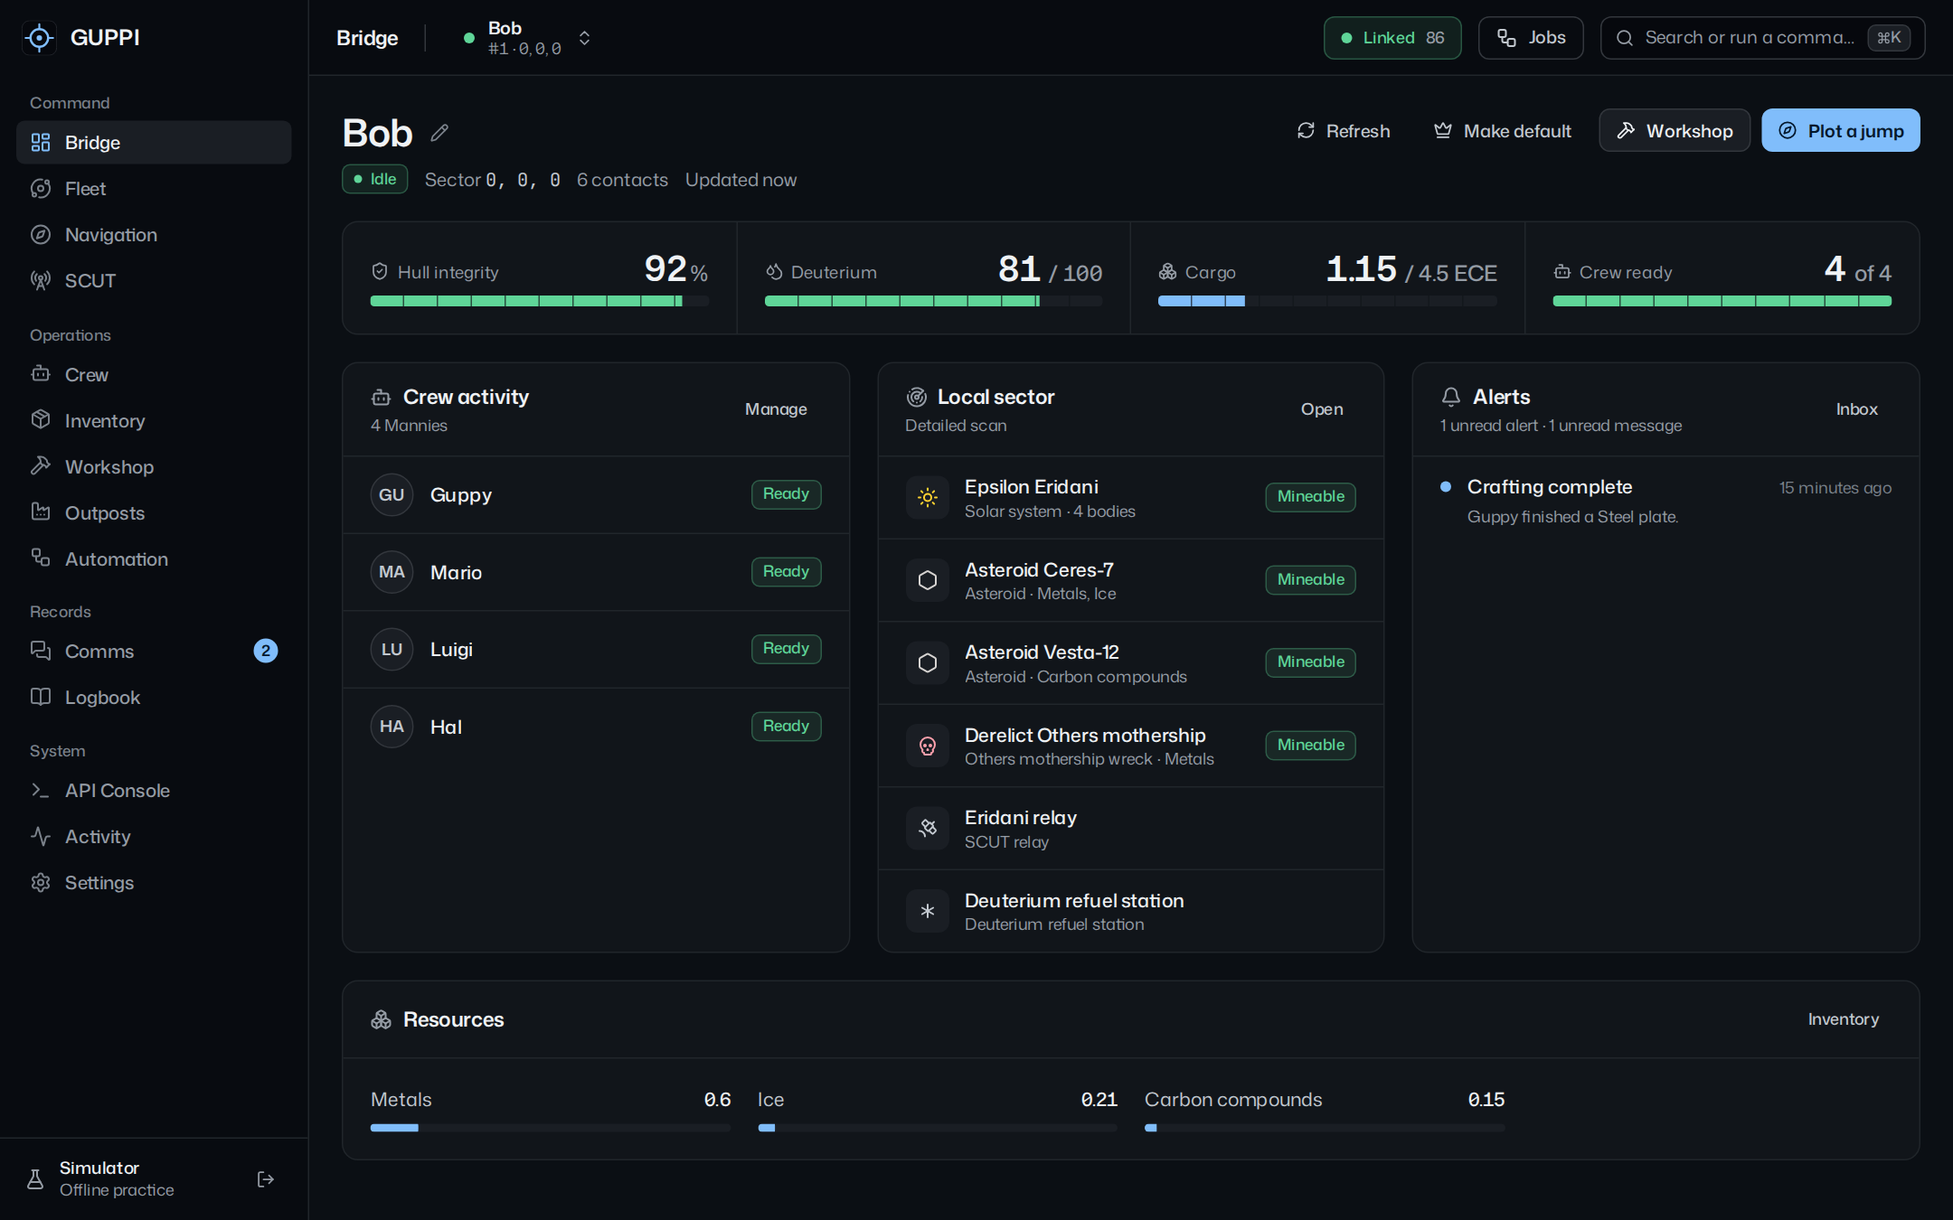
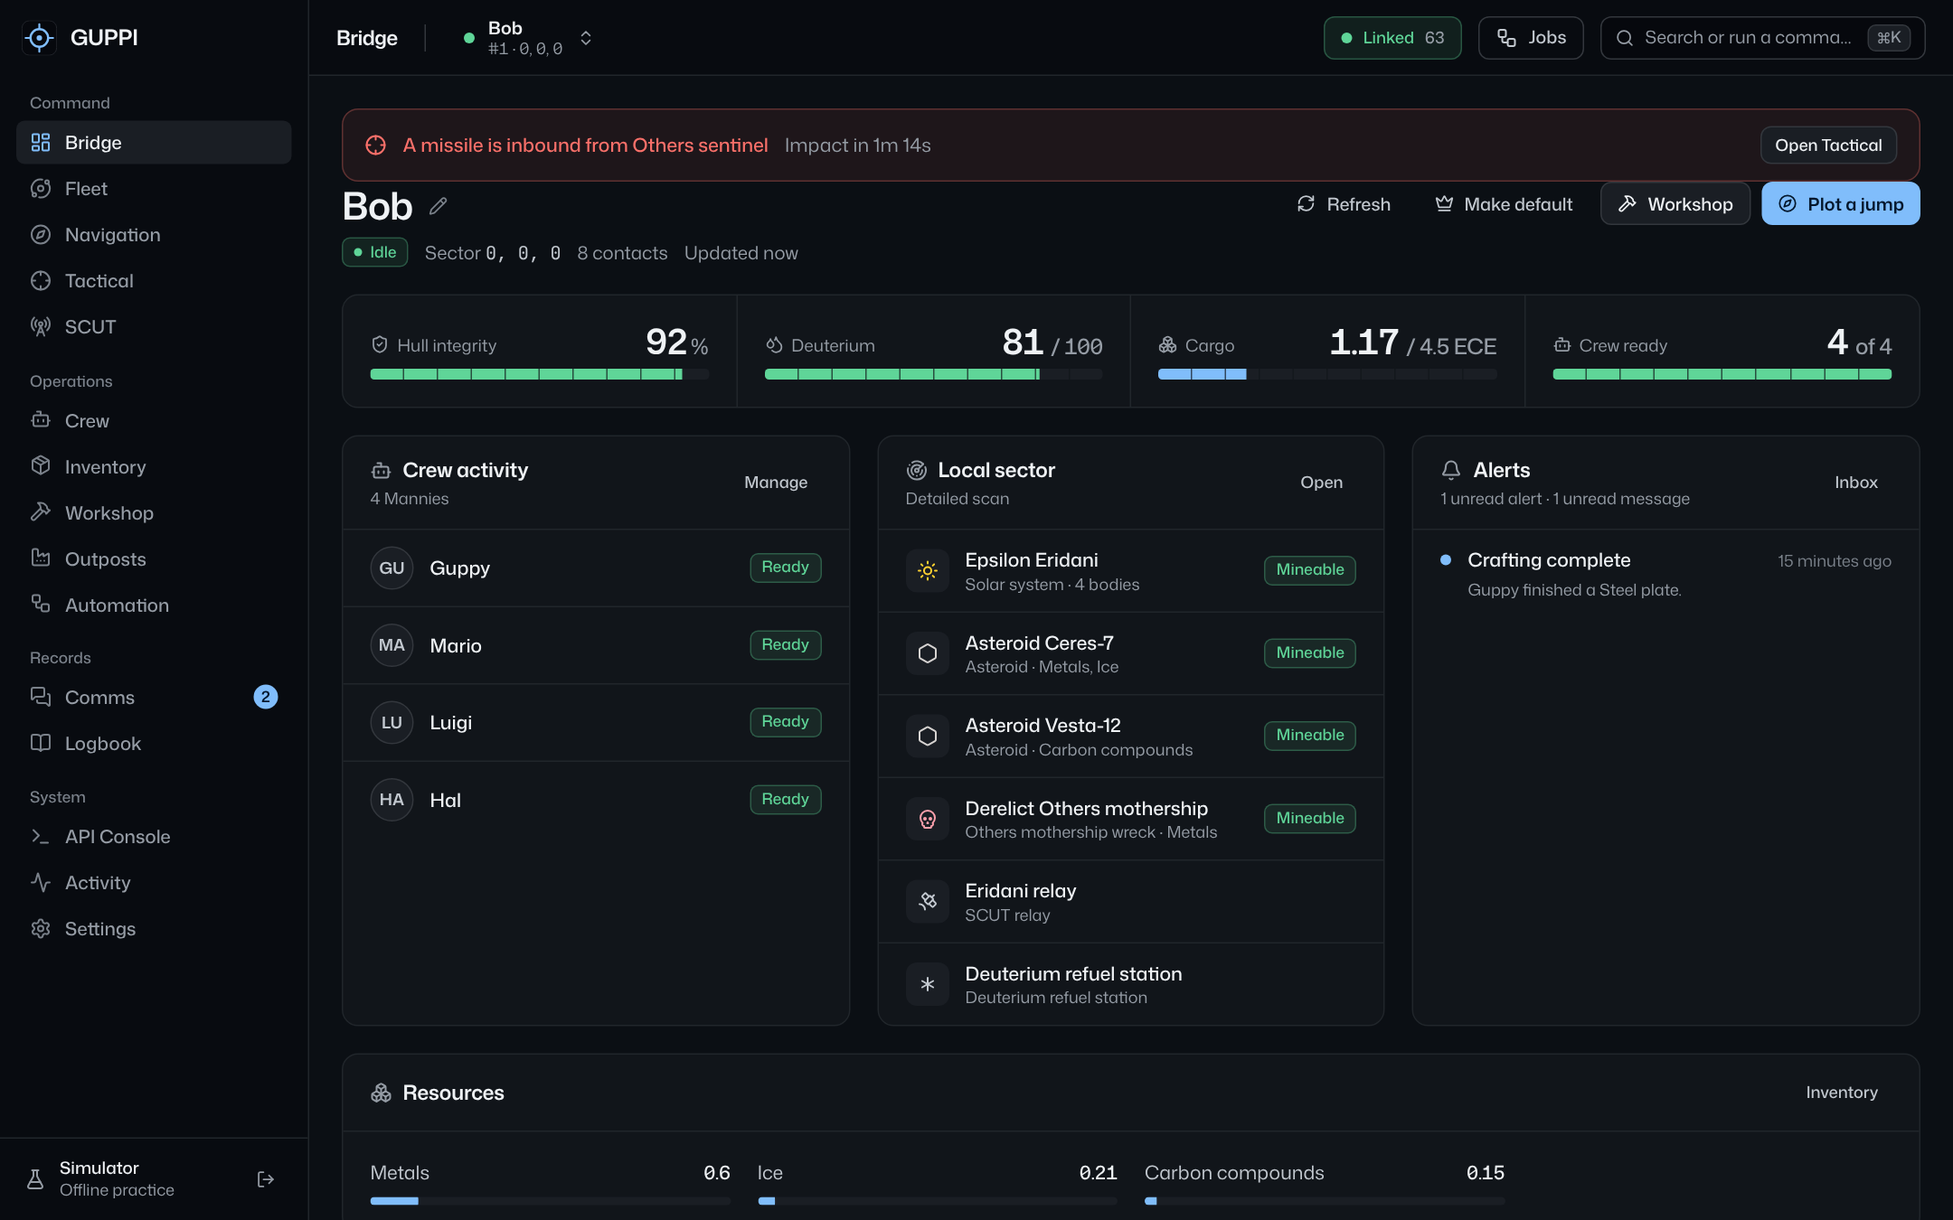
Repository page for release: new screenshots, social preview and README layout
- Fresh captures from the simulator for every screen: Bridge, Fleet
  with colours per probe and a probe in transit, Navigation after a
  neighbour scan with a sector readout, Tactical under fire, Workshop
  building a probe, the outpost wizard, a Crew order with the themed
  drop-down, and two phone screens. The unused connect screenshot is
  gone.
- New social preview naming iPhone & Android and AI agents.
- README reworked: a three-step start, a "What it does" grid that now
  covers phone and agents, a captioned six-image gallery, download
  verification, a side-by-side mobile section, a hardened-build bullet
  and the privacy note folded into the safety section.

Claude-Session: https://claude.ai/code/session_013TF59iZSk27Bq1i5bQvCGy

diff --git a/README.md b/README.md
@@ -13,6 +13,7 @@
   <a href="https://github.com/Izzo2thePoint/GUPPI/releases/latest"><img alt="Latest release" src="https://img.shields.io/github/v/release/Izzo2thePoint/GUPPI?display_name=tag&label=download&color=5b9cf0&style=flat-square" /></a>
   <a href="https://github.com/Izzo2thePoint/GUPPI/actions/workflows/guppi2-release.yml"><img alt="Build" src="https://img.shields.io/github/actions/workflow/status/Izzo2thePoint/GUPPI/guppi2-release.yml?branch=main&label=build&style=flat-square" /></a>
   <img alt="Platforms" src="https://img.shields.io/badge/platforms-Windows%20%C2%B7%20Linux%20%C2%B7%20iPhone%20%C2%B7%20Android-2b2f36?style=flat-square" />
+  <img alt="No telemetry" src="https://img.shields.io/badge/telemetry-none-2b2f36?style=flat-square" />
   <a href="docs/RELEASE-NOTES.md"><img alt="Release notes" src="https://img.shields.io/badge/release%20notes-read-2b2f36?style=flat-square" /></a>
   <a href="LICENSE"><img alt="MIT licence" src="https://img.shields.io/badge/licence-MIT-2b2f36?style=flat-square" /></a>
 </p>
@@ -23,11 +24,21 @@
   <a href="https://github.com/Izzo2thePoint/GUPPI/releases/latest"><b>Download for Linux</b></a>
   &nbsp;·&nbsp;
   <a href="#guppi-mobile-for-iphone-and-android"><b>Set up on your phone</b></a>
+  &nbsp;·&nbsp;
+  <a href="#for-scripts-and-ai-agents"><b>Connect an AI agent</b></a>
 </p>
 
 <br />
 
-GUPPI is a desktop companion for the browser game Neumann Probe. It talks to the game through your personal API key, shows your whole fleet as instruments rather than JSON, and runs the long, repetitive work (mining runs, craft queues, voyages, outposts) safely while you do something else. Everything in it is checked against the game's documented API before it is sent, and nothing is ever re-sent blindly.
+GUPPI is a free, open-source desktop companion for the browser game Neumann Probe. It talks to the game through your personal API key, shows your whole fleet as instruments rather than JSON, and runs the long, repetitive work (mining runs, craft queues, voyages, outposts) safely while you do something else. Everything it sends is checked against the game's documented API first, nothing is ever re-sent blindly, and nothing leaves your PC but the game traffic itself.
+
+<br />
+
+## Get started in three steps
+
+1. **Download** the installer for Windows or the AppImage for Linux from the [latest release](https://github.com/Izzo2thePoint/GUPPI/releases/latest). Each release lists SHA-256 checksums so you can verify the file.
+2. **Connect** with the personal API key from your Neumann Probe account, or click **Explore with the simulator** to try every screen offline first. Your key stays in the desktop process, encrypted with the OS keychain if you choose to remember it.
+3. **Optional:** open **Settings → Phone & agent access** to control GUPPI from your [phone](#guppi-mobile-for-iphone-and-android), or to let a [script or AI agent](#for-scripts-and-ai-agents) fly the fleet through GUPPI's safety rails.
 
 <br />
 
@@ -37,7 +48,7 @@ GUPPI is a desktop companion for the browser game Neumann Probe. It talks to the
   <tr>
     <td width="50%" valign="top">
       <h3>Bridge</h3>
-      One screen for the probe in command: hull, fuel, cargo and crew as instruments, the local sector, alerts and the resources aboard.
+      One screen for the probe in command: hull, fuel, cargo and crew as instruments, the local sector, alerts and the resources aboard. A red strip and a one-click route to Tactical when a missile is inbound.
     </td>
     <td width="50%" valign="top">
       <h3>Fleet</h3>
@@ -46,12 +57,12 @@ GUPPI is a desktop companion for the browser game Neumann Probe. It talks to the
   </tr>
   <tr>
     <td valign="top">
-      <h3>Tactical</h3>
-      Every other ship in the sector, who it is firing at and who is targeting it. Missiles in flight with time to impact, the ones aimed at you marked. Pick a target, a Manny and a missile, and fire.
+      <h3>Navigation</h3>
+      A 3D star map of everything you know: habitable worlds, hazards, star systems, SCUT coverage, outposts and refuel stations, with every probe on it. Orbit, pan, fly and go full screen. Plan single jumps or managed voyages with a fuel reserve. Long trips fly one sector at a time, or as many per jump as you allow.
     </td>
     <td valign="top">
-      <h3>Navigation</h3>
-      A 3D star map of everything you know: habitable worlds, hazards, star systems, SCUT coverage, outposts and refuel stations, with every probe on it. Orbit, pan, fly and go full screen. Plan single jumps or managed voyages with a fuel reserve, and sweep the 12 neighbouring sectors on arrival. Long trips are flown one sector at a time (or as many per jump as you allow).
+      <h3>Tactical</h3>
+      Every other ship in the sector, who it is firing at and who is targeting it. Missiles in flight with time to impact, the ones aimed at you marked. Pick a target, a Manny and a missile, and fire.
     </td>
   </tr>
   <tr>
@@ -71,10 +82,14 @@ GUPPI is a desktop companion for the browser game Neumann Probe. It talks to the
     </td>
     <td valign="top">
       <h3>Automation</h3>
-      Every long job runs outside the screen with resource claims, so two automations never grab the same Manny, container or printer. Write your own routines from any documented endpoint, with waits and conditions. Or let a script or an AI agent drive GUPPI through its command line, MCP server and local API.
+      Every long job runs outside the screen with resource claims, so two automations never grab the same Manny, container or printer. Write your own routines from any documented endpoint, with waits and conditions.
     </td>
   </tr>
   <tr>
+    <td valign="top">
+      <h3>Phone and agents</h3>
+      GUPPI Mobile for iPhone and Android, paired to your PC or standalone. A <code>guppi</code> command line, an MCP server and a local API so Claude, Cursor, Codex or your own scripts can read the fleet and give orders, with read-only and control scopes and a separate switch for dangerous actions.
+    </td>
     <td valign="top">
       <h3>SCUT, comms and records</h3>
       Coverage, networks and relays. Messages, alerts and damage reports. The logbook, an API console for anything else, and an activity log of every request GUPPI made.
@@ -84,24 +99,36 @@ GUPPI is a desktop companion for the browser game Neumann Probe. It talks to the
 
 <br />
 
+## Screenshots
+
 <table>
   <tr>
     <td width="50%"><a href="docs/screenshots/guppi2-bridge.png"><img src="docs/screenshots/guppi2-bridge.png" alt="The Bridge" /></a></td>
     <td width="50%"><a href="docs/screenshots/guppi2-fleet.png"><img src="docs/screenshots/guppi2-fleet.png" alt="Fleet, with colours per probe" /></a></td>
   </tr>
   <tr>
-    <td align="center"><sub>Bridge: the probe in command as instruments</sub></td>
-    <td align="center"><sub>Fleet: every probe, each in its own colours</sub></td>
+    <td align="center"><sub><b>Bridge.</b> The probe in command as instruments.</sub></td>
+    <td align="center"><sub><b>Fleet.</b> Every probe, each in its own colours, one in transit.</sub></td>
   </tr>
   <tr>
     <td><a href="docs/screenshots/guppi2-navigation.png"><img src="docs/screenshots/guppi2-navigation.png" alt="The 3D star map" /></a></td>
-    <td><a href="docs/screenshots/guppi2-workshop.png"><img src="docs/screenshots/guppi2-workshop.png" alt="Workshop: building a probe" /></a></td>
+    <td><a href="docs/screenshots/guppi2-tactical.png"><img src="docs/screenshots/guppi2-tactical.png" alt="Tactical: contacts, missiles in flight and fire control" /></a></td>
   </tr>
   <tr>
-    <td align="center"><sub>Navigation: the star map and helm</sub></td>
-    <td align="center"><sub>Workshop: the parts list for a new probe</sub></td>
+    <td align="center"><sub><b>Navigation.</b> The star map after a neighbour scan, with a sector readout and the helm.</sub></td>
+    <td align="center"><sub><b>Tactical.</b> Under fire from an Others sentinel, with fire control ready.</sub></td>
+  </tr>
+  <tr>
+    <td><a href="docs/screenshots/guppi2-workshop.png"><img src="docs/screenshots/guppi2-workshop.png" alt="Workshop: building a probe" /></a></td>
+    <td><a href="docs/screenshots/guppi2-outposts.png"><img src="docs/screenshots/guppi2-outposts.png" alt="Setting up a mining outpost" /></a></td>
+  </tr>
+  <tr>
+    <td align="center"><sub><b>Workshop.</b> The parts list for a new probe and what the rest takes.</sub></td>
+    <td align="center"><sub><b>Outposts.</b> Setting up a mining outpost: asteroid, container, crew.</sub></td>
   </tr>
 </table>
+
+<p align="center"><sub>All screenshots are from the built-in simulator. Nothing here is sent to the game.</sub></p>
 
 <br />
 
@@ -112,36 +139,28 @@ GUPPI is a desktop companion for the browser game Neumann Probe. It talks to the
 | **Windows** | [`GUPPI-Setup-<version>.exe`](https://github.com/Izzo2thePoint/GUPPI/releases/latest) installs with Start-menu and desktop shortcuts. [`GUPPI-Portable-<version>.exe`](https://github.com/Izzo2thePoint/GUPPI/releases/latest) runs from anywhere, no install. |
 | **Linux** | [`GUPPI-<version>-x86_64.AppImage`](https://github.com/Izzo2thePoint/GUPPI/releases/latest). Run `chmod +x` on it, then open it. Needs FUSE (`sudo apt install libfuse2` on Ubuntu and Debian). |
 | **iPhone or Android** | Nothing to install. See [GUPPI Mobile](#guppi-mobile-for-iphone-and-android) below. |
+| **Scripts and AI agents** | [`guppi-cli-<version>.tgz`](https://github.com/Izzo2thePoint/GUPPI/releases/latest): `npm install -g` it for the `guppi` command line and the `guppi-mcp` server. See [the guide](docs/AGENT-API.md). |
 
-Start GUPPI and paste the personal API key from your Neumann Probe account, or choose **Explore with the simulator** to try everything offline first.
+**Verify a download.** Every release carries `SHA256SUMS.txt` and lists the same hashes at the end of its notes. Compare with `certutil -hashfile GUPPI-Setup-<version>.exe SHA256` on Windows or `sha256sum -c SHA256SUMS.txt` on Linux. Releases are built by GitHub Actions from the tagged commit, so what you download is what is in this repository.
 
-> If Windows SmartScreen says "Windows protected your PC" the first time, click **More info → Run anyway**. Every release is built by GitHub Actions from its tagged commit, and each one lists SHA-256 checksums of its files (`SHA256SUMS.txt`) so you can verify a download.
+> If Windows SmartScreen says "Windows protected your PC" the first time, click **More info → Run anyway**. GUPPI checks for updates only when you ask it to (Settings → Updates, or Help → Check for updates…) and never updates itself.
 
 <br />
 
 ## GUPPI Mobile for iPhone and Android
 
-<img align="right" src="docs/screenshots/guppi-mobile.png" alt="GUPPI Mobile" width="220" />
-
-A home-screen web app with the Bridge, Crew, Sector, Jobs and Comms, for iPhone and Android alike. It works two ways.
-
-**Paired with GUPPI on your PC.** In GUPPI, open **Settings → Phone & agent access**, switch on remote access, and point your phone's camera at the QR code. Then add it to your home screen: **Share → Add to Home Screen** in Safari on iPhone, or Chrome's menu → **Add to Home screen** on Android. The phone sends everything through GUPPI on the PC, so your key never leaves the PC, and jobs keep running there while the phone sleeps. Works on home Wi-Fi, and away from home over [Tailscale](https://tailscale.com/).
-
-**On its own.** Choose **Direct** and enter your key; the phone talks to the game itself. For this the app needs an `https://` home: a free Cloudflare Worker in [`relay/`](relay/) hosts it and relays game calls in one step, or GitHub Pages can serve it. Only type your key into a copy of GUPPI Mobile that your own PC serves or that you host yourself: whoever hosts the page could change it.
-
-Full details are in the [GUPPI 2 README](guppi2/README.md#guppi-mobile-iphone-and-android).
-
-<br clear="right" />
-
-## Built to be safe with your account
-
-- **Your key stays in the desktop process.** The interface never sees it, responses are redacted, and the app only ever talks to `neumann-probe.net`.
-- **Every request is validated first** against the game's 68 documented endpoints: paths, limits, body schemas and the sector parity rule.
-- **One request lane, rate-limit aware.** User actions go first, automations second, background refreshes last. The app backs off when the game asks it to.
-- **Orders are never re-sent blindly.** If the game doesn't confirm a mutation, GUPPI tells you the outcome is unknown instead of guessing.
-- **Automations hold claims** on the Mannies, containers, asteroids and printer they use, so they can't collide, and they wait rather than guess when a probe is out of SCUT contact.
-
-**Privacy.** GUPPI has no telemetry, no analytics and no crash reporting. It makes no network request except to the game, and to GitHub's release API only when you click **Check for updates**. Everything it keeps stays on your PC: your key (encrypted with the OS keychain, only if you tick *Remember*), the pairing token for your phone, and your settings, sector archive, bookmarks, routines and outposts in the app's local storage. **Settings → Local data** clears them. On the phone, GUPPI Mobile keeps its connection in the browser's storage when *Remember* is on; in Direct mode that includes your key, so switch it off on a shared phone. Found a hole in any of this? See [SECURITY.md](SECURITY.md).
+<table>
+  <tr>
+    <td width="30%" valign="top"><a href="docs/screenshots/guppi-mobile.png"><img src="docs/screenshots/guppi-mobile.png" alt="GUPPI Mobile: the Bridge" /></a></td>
+    <td width="30%" valign="top"><a href="docs/screenshots/guppi-mobile-sector.png"><img src="docs/screenshots/guppi-mobile-sector.png" alt="GUPPI Mobile: the sector" /></a></td>
+    <td width="40%" valign="top">
+      <p>A home-screen web app with the Bridge, Crew, Sector, Jobs and Comms, for iPhone and Android alike. It works two ways.</p>
+      <p><b>Paired with GUPPI on your PC.</b> In GUPPI, open <b>Settings → Phone &amp; agent access</b>, switch on remote access, and point your phone's camera at the QR code. Then add it to your home screen: <b>Share → Add to Home Screen</b> in Safari on iPhone, or Chrome's menu → <b>Add to Home screen</b> on Android. The phone sends everything through GUPPI on the PC, so your key never leaves the PC, and jobs keep running there while the phone sleeps. Works on home Wi-Fi, and away from home over <a href="https://tailscale.com/">Tailscale</a>; <b>Listen on</b> can keep the server off every network but that one.</p>
+      <p><b>On its own.</b> Choose <b>Direct</b> and enter your key; the phone talks to the game itself. For this the app needs an <code>https://</code> home: a free Cloudflare Worker in <a href="relay/"><code>relay/</code></a> hosts it and relays game calls in one step, or GitHub Pages can serve it. Only type your key into a copy of GUPPI Mobile that your own PC serves or that you host yourself.</p>
+      <p>Full details are in the <a href="guppi2/README.md#guppi-mobile-iphone-and-android">GUPPI 2 README</a>.</p>
+    </td>
+  </tr>
+</table>
 
 <br />
 
@@ -157,6 +176,19 @@ Every call runs through GUPPI's own request lane below your clicks, is validated
 
 <br />
 
+## Built to be safe with your account
+
+- **Your key stays in the desktop process.** The interface never sees it, responses are redacted, and the app only ever talks to `neumann-probe.net`.
+- **Every request is validated first** against the game's 68 documented endpoints: paths, limits, body schemas and the sector parity rule.
+- **One request lane, rate-limit aware.** User actions go first, automations second, background refreshes last. The app backs off when the game asks it to.
+- **Orders are never re-sent blindly.** If the game doesn't confirm a mutation, GUPPI tells you the outcome is unknown instead of guessing.
+- **Automations hold claims** on the Mannies, containers, asteroids and printer they use, so they can't collide, and they wait rather than guess when a probe is out of SCUT contact.
+- **Hardened build.** The window is sandboxed with a strict Content Security Policy, every non-app request is blocked, and the shipped binary has Electron's fuses set so it cannot be made to run arbitrary Node code.
+
+**Privacy.** GUPPI has no telemetry, no analytics and no crash reporting. It makes no network request except to the game, and to GitHub's release API only when you click **Check for updates**. Everything it keeps stays on your PC: your key (encrypted with the OS keychain, only if you tick *Remember*), the pairing token for your phone, and your settings, sector archive, bookmarks, routines and outposts in the app's local storage. **Settings → Local data** clears them. On the phone, GUPPI Mobile keeps its connection in the browser's storage when *Remember* is on; in Direct mode that includes your key, so switch it off on a shared phone. Found a hole in any of this? See [SECURITY.md](SECURITY.md).
+
+<br />
+
 ## Repository
 
 | Path | What it is |
@@ -164,9 +196,9 @@ Every call runs through GUPPI's own request lane below your clicks, is validated
 | [`guppi2/`](guppi2/) | **GUPPI 2**, the app: Electron, React, TypeScript. Start with its [README](guppi2/README.md) and [design system](guppi2/DESIGN.md). |
 | [`guppi2/cli/`](guppi2/cli/) | The `guppi` command line and `guppi-mcp` server for scripts and AI agents ([guide](docs/AGENT-API.md)) |
 | [`relay/`](relay/) | Optional Cloudflare Worker that hosts GUPPI Mobile and relays game calls |
-| [`docs/`](docs/) | [Release notes](docs/RELEASE-NOTES.md), the [design review](docs/GUPPI-2-ANALYSIS.md) that shaped GUPPI 2, screenshots and artwork |
+| [`docs/`](docs/) | [Release notes](docs/RELEASE-NOTES.md), the [agent guide](docs/AGENT-API.md), the [design review](docs/GUPPI-2-ANALYSIS.md) that shaped GUPPI 2, screenshots and artwork |
 | [`legacy/guppi-1.16/`](legacy/guppi-1.16/) | GUPPI 1.16, the original app, kept unchanged for reference |
-| [`.github/workflows/`](.github/workflows/) | Tests, builds and publishes releases; publishes the mobile web app |
+| [`.github/workflows/`](.github/workflows/) | Tests, builds and publishes releases with checksums; publishes the mobile web app |
 
 **Contributing.** See [CONTRIBUTING.md](CONTRIBUTING.md). In short: run `pnpm install`, `pnpm dev` and `pnpm test` in `guppi2/`; the pre-push gate is `pnpm typecheck && pnpm test && pnpm build`, which is exactly what CI runs. Merging to `main` with a new `version` in `guppi2/package.json` publishes a GitHub Release automatically. Bugs and ideas are welcome in [Issues](https://github.com/Izzo2thePoint/GUPPI/issues/new/choose); a raw response from the API Console makes a sensor or mining bug much easier to fix. Security problems go through [SECURITY.md](SECURITY.md). Everyone taking part is asked to follow the [code of conduct](CODE_OF_CONDUCT.md).
 
